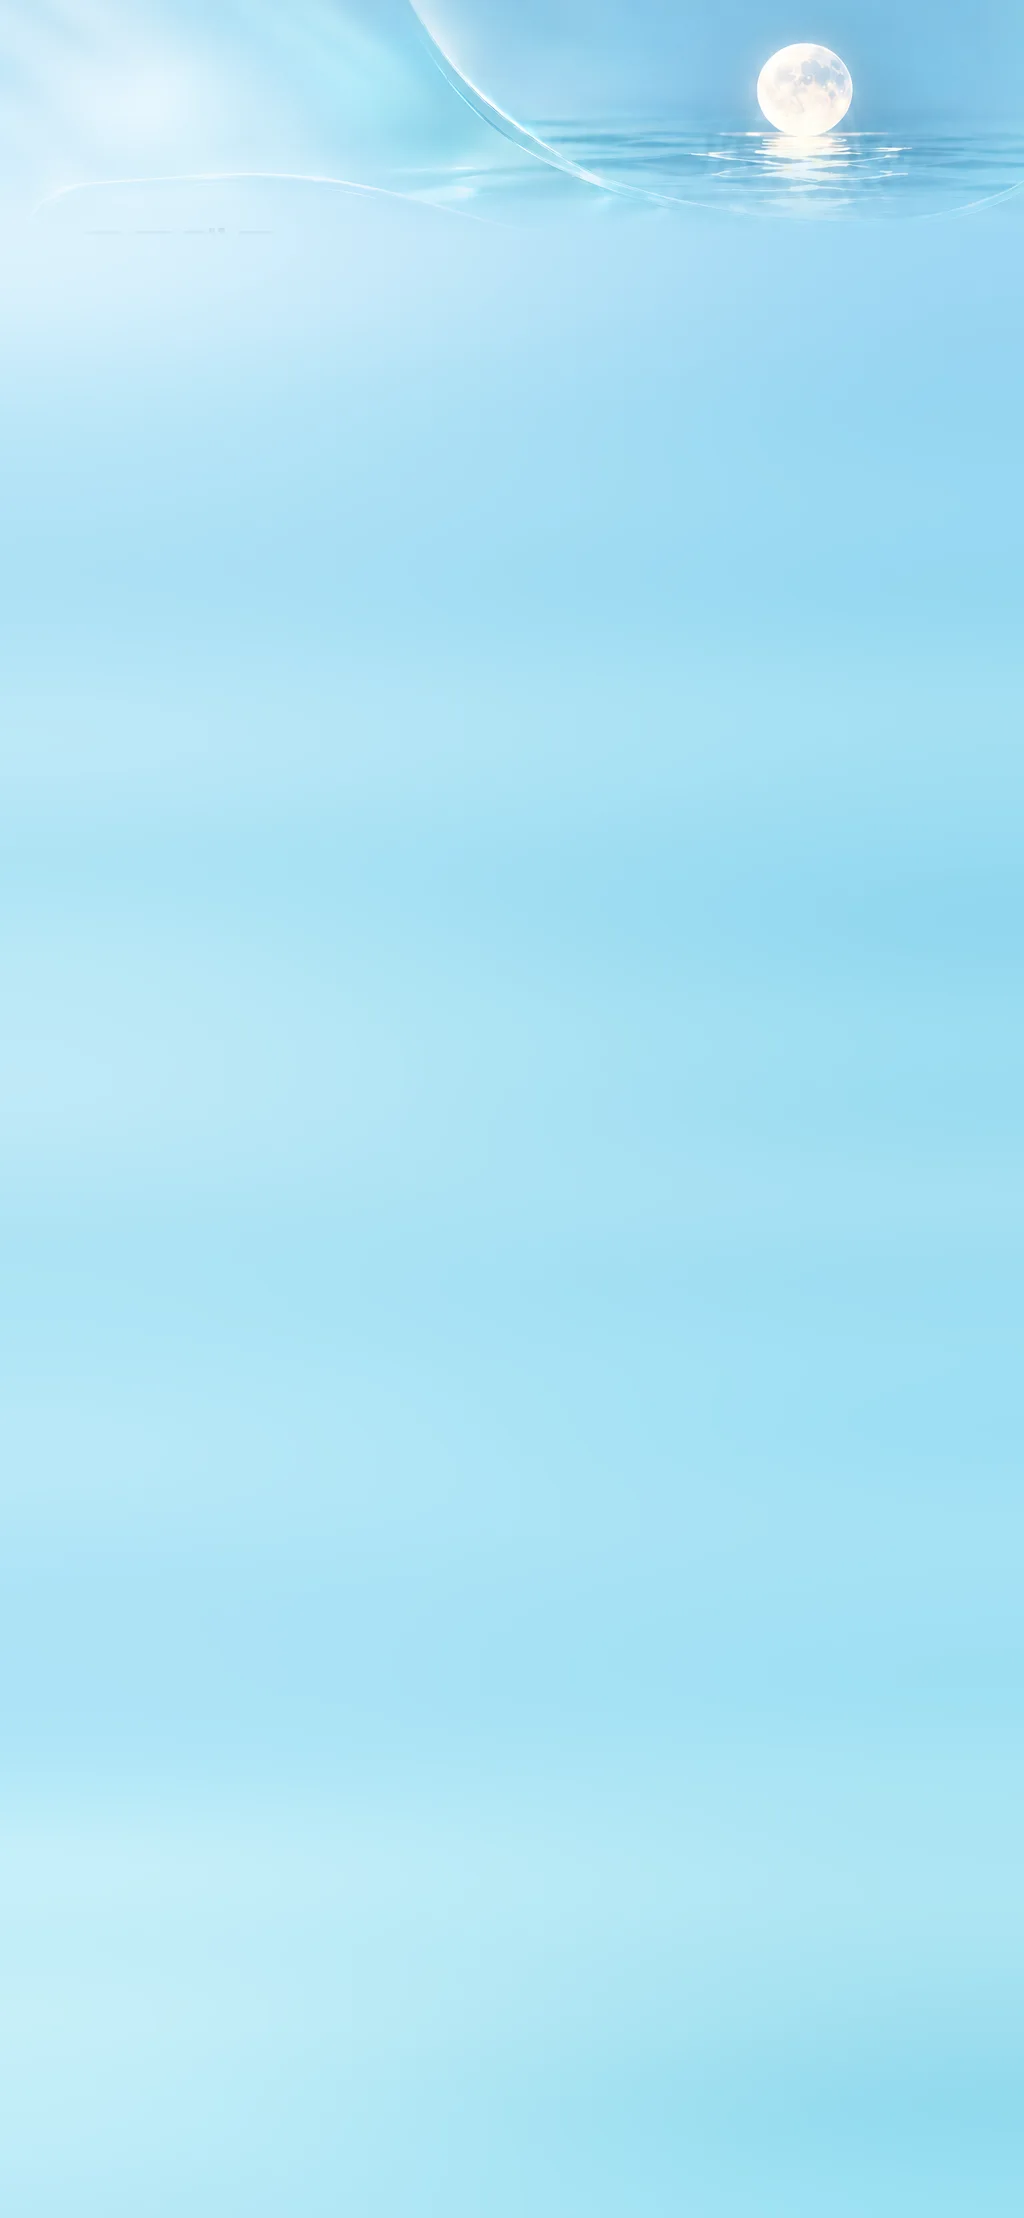
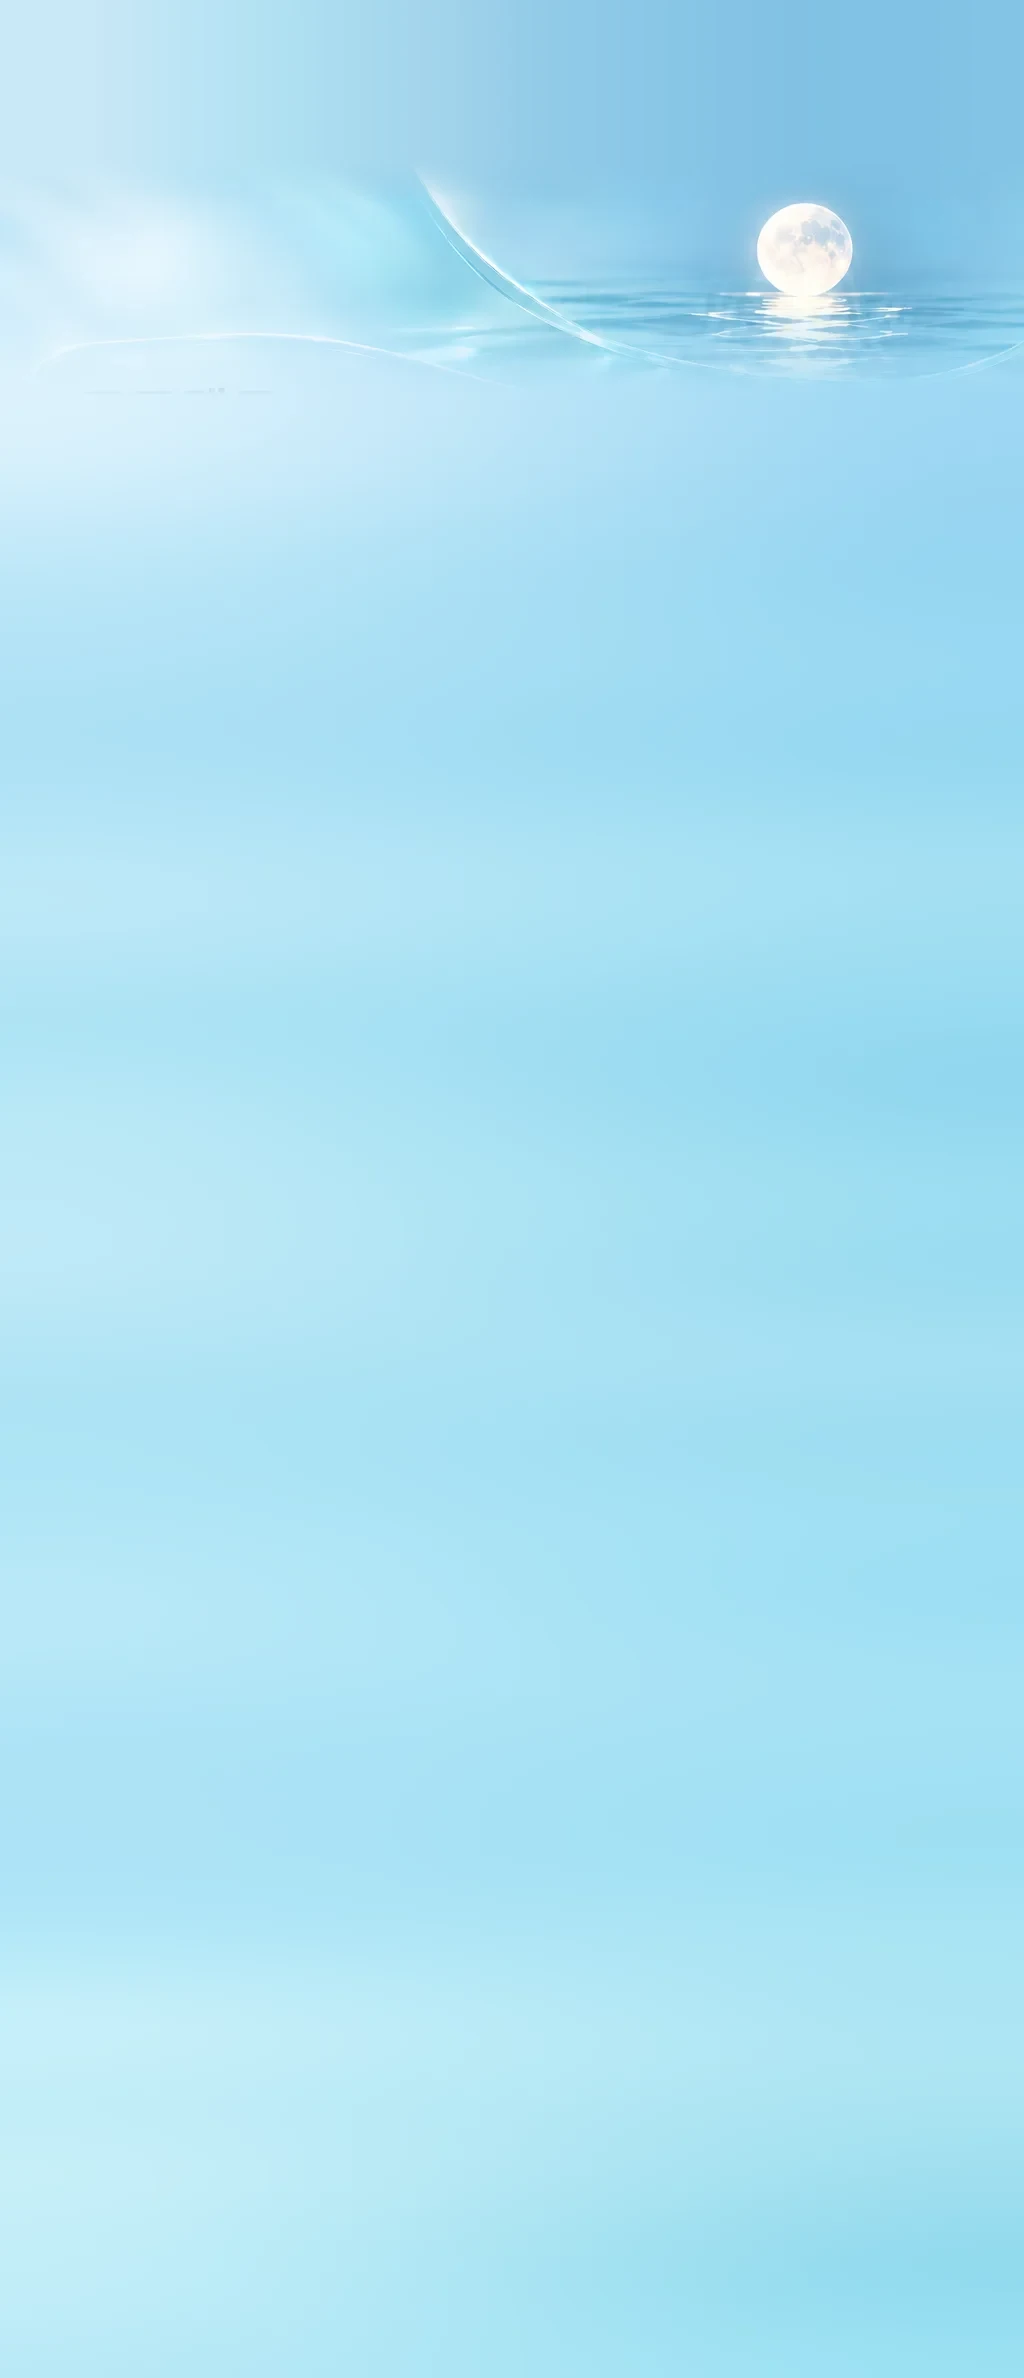
하루: 아이폰 홈 화면 앱에서 아래 빈 띠 없애고 달이 상태바에 안 가리게
- 홈 화면 앱이면 페이지 높이를 화면 끝까지 늘림(iOS가 높이를 짧게 알려 주는 문제)
- 달빛 배경 위에 하늘을 덧대고 상태바 높이만큼 내려 달이 「하루」 옆에 보이게
- 달력 칩이 눌려 글자가 겹치던 것 고침

Claude-Session: https://claude.ai/code/session_01YMNPZCviXGYp42DjssSfVm

diff --git a/haru/styles.css b/haru/styles.css
@@ -567,3 +567,14 @@ body[data-view="detail"] .top{display:none}
 [data-theme="green"] .set-ico{width:54px;height:54px;border-radius:15px}
 [data-theme="green"] .set-ico .set-img-g{object-fit:contain;border-radius:0}
 [data-theme="green"] .set-ico:has(.set-img-g){box-shadow:none}
+
+/* ===== 홈 화면 앱(아이폰) 11/09: 아래 빈 띠 없애기 + 달이 상태바에 가리지 않게 ===== */
+/* iOS 홈 화면 앱은 화면 높이를 상태바만큼 짧게 알려 줌 → 페이지 높이를 화면 끝까지 늘림(10/19 옛 하루에서 쓰던 방법) */
+html.haru-sa{height:auto;min-height:min(100lvh,calc(100% + env(safe-area-inset-top)))}
+html.haru-sa body{position:fixed;inset:0;height:auto}
+html.haru-sa .app{height:100%}
+/* 달빛 배경 위에 하늘 160px를 덧대 두고, 상태바 높이만큼만 아래로 내림 */
+[data-theme="moon"] .bg{background-position:center calc(env(safe-area-inset-top, 0px) - 15.625vw),0 0}
+@media (min-width:700px){[data-theme="moon"] .bg{background-position:center top,0 0}}
+/* 아이폰 글꼴은 줄 높이가 커서 칸이 모자라면 칩이 눌려 글자가 잘림 → 칩은 줄어들지 않게, 넘치는 건 칸 아래로 숨김 */
+.day .chip,.day .more,.day .num{flex:none}

diff --git a/haru/index.html b/haru/index.html
@@ -10,8 +10,8 @@
 <meta name="apple-mobile-web-app-status-bar-style" content="black-translucent">
 <meta name="apple-mobile-web-app-title" content="하루">
 <link rel="apple-touch-icon" href="apple-touch-icon.png?v=3">
-<script>try{var t=localStorage.getItem('haru-look');if(t==='green'||t==='moon')document.documentElement.dataset.theme=t;}catch(_){}</script>
-<link rel="stylesheet" href="styles.css?v=35">
+<script>try{var t=localStorage.getItem('haru-look');if(t==='green'||t==='moon')document.documentElement.dataset.theme=t;}catch(_){}if(navigator.standalone||matchMedia('(display-mode: standalone)').matches)document.documentElement.classList.add('haru-sa');</script>
+<link rel="stylesheet" href="styles.css?v=36">
 </head>
 <body>
 <div class="bg" aria-hidden="true"></div>
